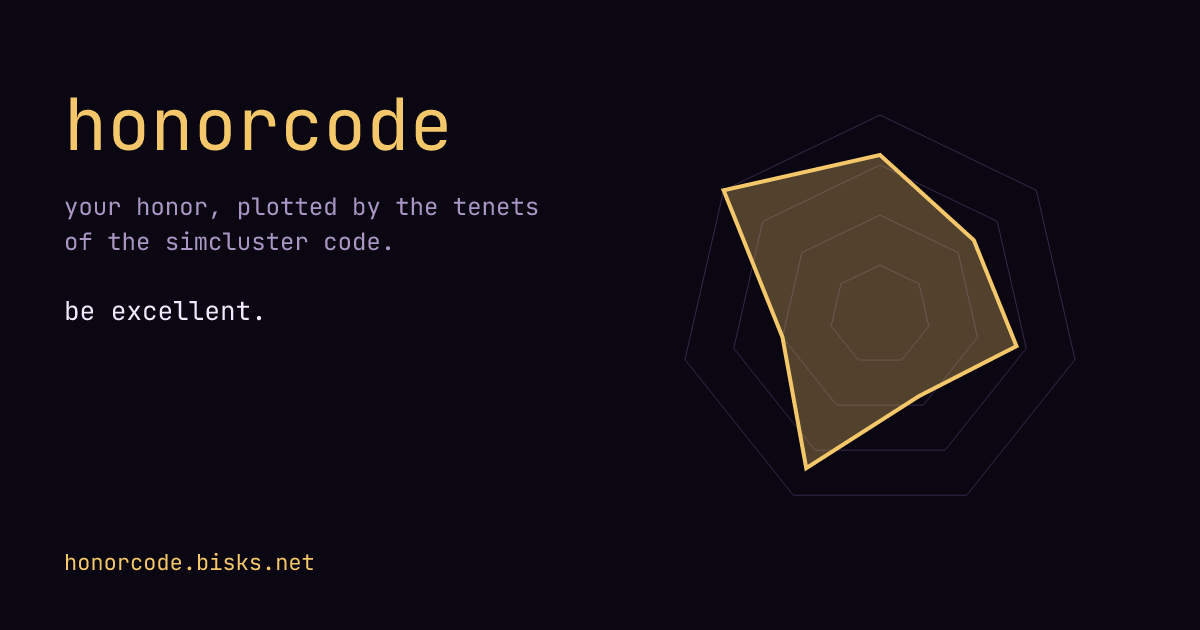
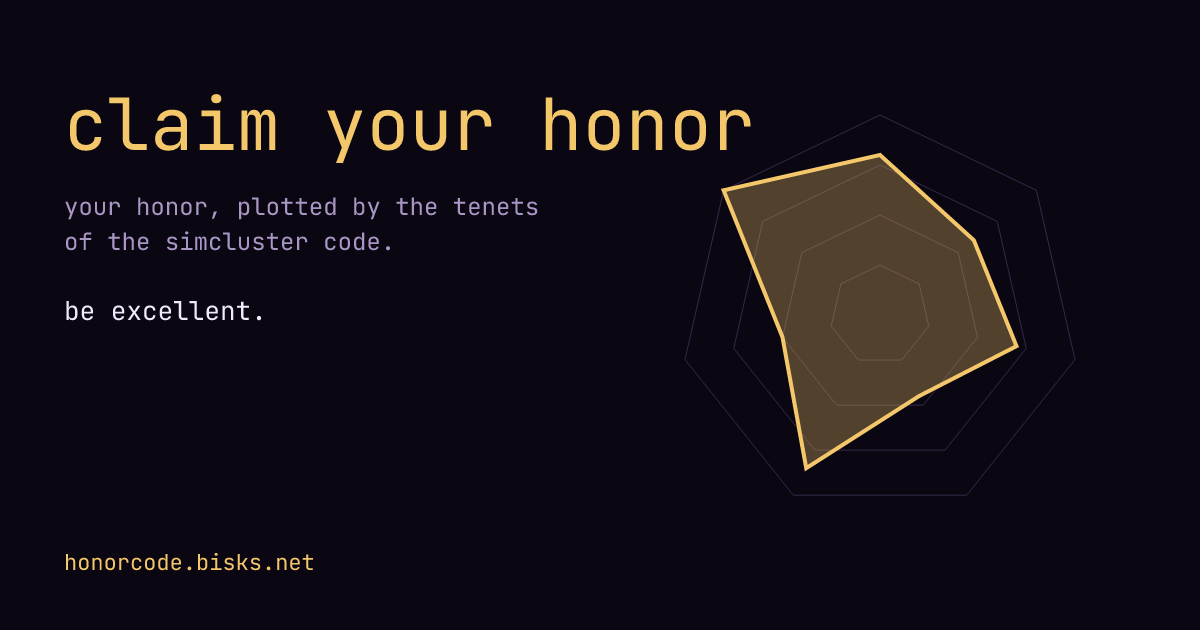
buildthis: honorcode (@antiali.as)

Changed region(s): [[0.0617, 0.1508, 0.6475, 0.2714]]

diff --git a/sites/honorcode/public/index.html b/sites/honorcode/public/index.html
@@ -3,10 +3,10 @@
 <head>
 <meta charset="utf-8" />
 <meta name="viewport" content="width=device-width, initial-scale=1" />
-<title>honorcode — your honor, plotted by the tenets of the simcluster code</title>
+<title>claim your honor — your honor, plotted by the tenets of the simcluster code</title>
 <meta name="description" content="Enter a Bluesky handle. Your honor is plotted on a radar chart against seven tenets of the SimCluster code. Be excellent." />
 <meta property="og:type" content="website" />
-<meta property="og:title" content="honorcode — your honor, plotted by the tenets of the simcluster code" />
+<meta property="og:title" content="claim your honor — your honor, plotted by the tenets of the simcluster code" />
 <meta property="og:description" content="Seven tenets, one radar chart. The highest honor is being claimed by @norvid-studies.bsky.social." />
 <meta property="og:url" content="https://honorcode.bisks.net/" />
 <meta property="og:image" content="https://honorcode.bisks.net/og.png" />
@@ -56,7 +56,7 @@
 <body>
 <div class="wrap">
   <header>
-    <h1>honor<span onclick="var i=document.getElementById('handleInput');i.value='@cee.wtf';i.dispatchEvent(new Event('input',{bubbles:true}));i.dispatchEvent(new Event('change',{bubbles:true}));i.focus();" style="cursor:pointer">c</span>ode</h1>
+    <h1><span onclick="var i=document.getElementById('handleInput');i.value='@cee.wtf';i.dispatchEvent(new Event('input',{bubbles:true}));i.dispatchEvent(new Event('change',{bubbles:true}));i.focus();" style="cursor:pointer">c</span>laim your honor</h1>
     <div class="tagline">your honor, plotted by the tenets of the simcluster code. seven tenets, one radar chart, read off your real graph and your whole post history. be excellent.</div>
   </header>
 

diff --git a/apex/public/index.html b/apex/public/index.html
@@ -2547,7 +2547,7 @@
           </p>
         </a>
         <a class="card" href="https://honorcode.bisks.net/" data-site="honorcode" data-by="antiali.as" data-type="toy" data-src="bot">
-          <h2>honorcode <span class="tag">toy</span></h2>
+          <h2>claim your honor <span class="tag">toy</span></h2>
           <p>
             enter a handle and your honor gets plotted on a radar chart against seven tenets of the simcluster code: reciprocity, standing, tribute, generosity, constancy, craft, and whether you've been claimed by @norvid-studies.bsky.social. asked for by antiali.as. be excellent.
           </p>
